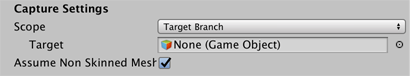
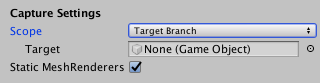
Updated label of assumeNonSkinnedMeshRendersAreConstant The label was cropped when then inspector was at default width. Label is now "Static MeshRenderers" with a detailed tooltip. Also updated doc markdown and images.

diff --git a/proto.com.unity.formats.alembic/Editor/Exporter/AlembicExporterEditor.cs b/proto.com.unity.formats.alembic/Editor/Exporter/AlembicExporterEditor.cs
@@ -95,7 +95,7 @@ namespace UnityEditor.Formats.Alembic.Exporter
                     dirty = true;
                 EditorGUI.indentLevel--;
             }
-            EditorGUILayout.PropertyField(so.FindProperty(pathSettings + "assumeNonSkinnedMeshesAreConstant"));
+            EditorGUILayout.PropertyField(so.FindProperty(pathSettings + "assumeNonSkinnedMeshesAreConstant"), new GUIContent("Static MeshRenderers"));
             GUILayout.Space(5);
 
             m_foldCaptureComponents = EditorGUILayout.Foldout(m_foldCaptureComponents, "Capture Components");

diff --git a/proto.com.unity.formats.alembic/Editor/Timeline/AlembicRecorderClipEditor.cs b/proto.com.unity.formats.alembic/Editor/Timeline/AlembicRecorderClipEditor.cs
@@ -85,7 +85,7 @@ namespace UnityEditor.Formats.Alembic.Timeline
                     dirty = true;
                 EditorGUI.indentLevel--;
             }
-            EditorGUILayout.PropertyField(so.FindProperty(pathSettings + "assumeNonSkinnedMeshesAreConstant"));
+            EditorGUILayout.PropertyField(so.FindProperty(pathSettings + "assumeNonSkinnedMeshesAreConstant"), new GUIContent("Static MeshRenderers"));
             GUILayout.Space(5);
 
             m_foldCaptureComponents = EditorGUILayout.Foldout(m_foldCaptureComponents, "Capture Components");

diff --git a/proto.com.unity.formats.alembic/Runtime/Scripts/Exporter/AlembicExporter_impl.cs b/proto.com.unity.formats.alembic/Runtime/Scripts/Exporter/AlembicExporter_impl.cs
@@ -57,6 +57,7 @@ namespace UnityEngine.Formats.Alembic.Util
         }
 
         [SerializeField]
+        [Tooltip("Assume only GameObjects with a SkinnedMeshRenderer component change over time.")]
         private bool assumeNonSkinnedMeshesAreConstant = true;
         public bool AssumeNonSkinnedMeshesAreConstant
         {

diff --git a/proto.com.unity.formats.alembic/Documentation~/ref_Recorder.md b/proto.com.unity.formats.alembic/Documentation~/ref_Recorder.md
@@ -60,11 +60,11 @@ Use these settings to determine the set of target GameObject(s) for the current 
 
 | ***Property***                             |                   | ***Description***                                            |
 | :----------------------------------------- | :---------------- | :----------------------------------------------------------- |
-| __Scope__                                  |                   | Choose the scope of the export. By default, this is set to the **Entire Scene**. |
-|                                            | __Entire Scene__  | Export the entire Scene. This is the default.                |
-|                                            | __Target Branch__ | Export only a branch (or hierarchy) of the Scene. When you choose this option, the Capture Settings **Target** property appears, which allows you to select a GameObject. |
-| __Target__                                 |                   | Set a reference to the GameObject that is the root of the hierarchy you want to export.<br/>This property is only available if the **Scope** property is set to __Target Branch__. |
-| __Assume Non Skinned Meshes Are Constant__ |                   | Enable this option to skip capturing animation on static Meshes. |
+| __Scope__                |                   | Choose the scope of the export. By default, this is set to the **Entire Scene**. |
+|                          | __Entire Scene__  | Export the entire Scene. This is the default.                |
+|                          | __Target Branch__ | Export only a branch (or hierarchy) of the Scene. When you choose this option, the Capture Settings **Target** property appears, which allows you to select a GameObject. |
+| __Target__               |                   | Set a reference to the GameObject that is the root of the hierarchy you want to export.<br/>This property is only available if the **Scope** property is set to __Target Branch__. |
+| __Static MeshRenderers__ |                   | Enable this option to skip capturing animation on static Meshes. |
 
 
 

diff --git a/proto.com.unity.formats.alembic/Documentation~/ref_Exporter.md b/proto.com.unity.formats.alembic/Documentation~/ref_Exporter.md
@@ -71,11 +71,11 @@ Use these settings to determine the set of target GameObject(s) for the current 
 
 | ***Property***                             |                   | ***Description***                                            |
 | :----------------------------------------- | :---------------- | :----------------------------------------------------------- |
-| __Scope__                                  |                   | Choose the scope of the export. By default, this is set to the **Entire Scene**. |
-|                                            | __Entire Scene__  | Export the entire Scene. This is the default.                |
-|                                            | __Target Branch__ | Export only a branch (or hierarchy) of the Scene. When you choose this option, the **Target** property appears, which allows you to select a GameObject. |
-| __Target__                                 |                   | Set a reference to the GameObject that is the root of the hierarchy you want to export.<br/>This property is only available if the **Scope** property is set to __Target Branch__. |
-| __Assume Non Skinned Meshes Are Constant__ |                   | Enable this option to skip capturing animation on static Meshes. |
+| __Scope__                |                   | Choose the scope of the export. By default, this is set to the **Entire Scene**. |
+|                          | __Entire Scene__  | Export the entire Scene. This is the default.                |
+|                          | __Target Branch__ | Export only a branch (or hierarchy) of the Scene. When you choose this option, the **Target** property appears, which allows you to select a GameObject. |
+| __Target__               |                   | Set a reference to the GameObject that is the root of the hierarchy you want to export.<br/>This property is only available if the **Scope** property is set to __Target Branch__. |
+| __Static MeshRenderers__ | Enable this option to skip capturing animation on static Meshes. |
 
 
 
